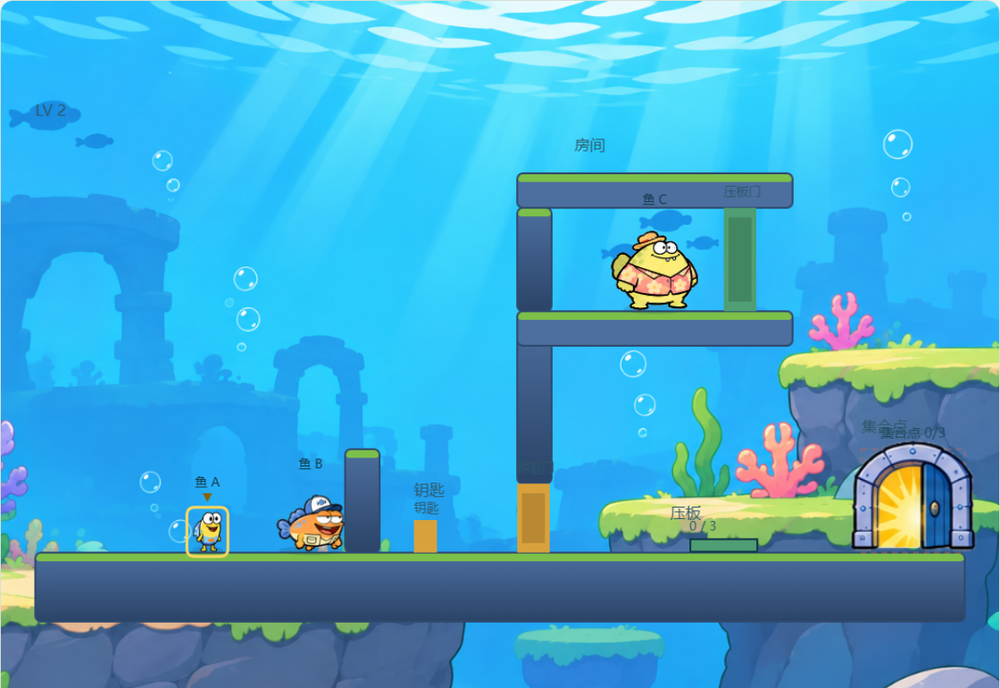
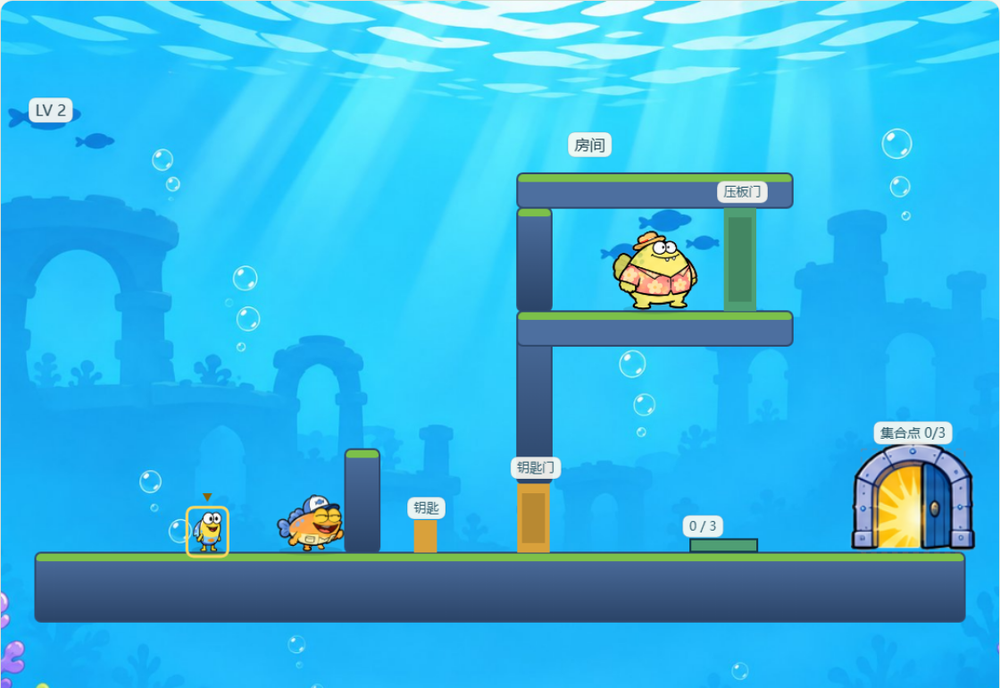
Show level 2 as the README screenshot

diff --git a/README.md b/README.md
@@ -6,7 +6,7 @@
 
 *A 2D co-op puzzle platformer about three fish with different weights, sizes and speeds who have to meet at the checkpoint. Development and collaboration happen on `main` in this repository.*
 
-![关卡 4 · 逆流渡桥](docs/screenshots/level-4.png)
+![关卡 2 · 钥匙与重量](docs/screenshots/level-2.png)
 
 ## 中文
 
